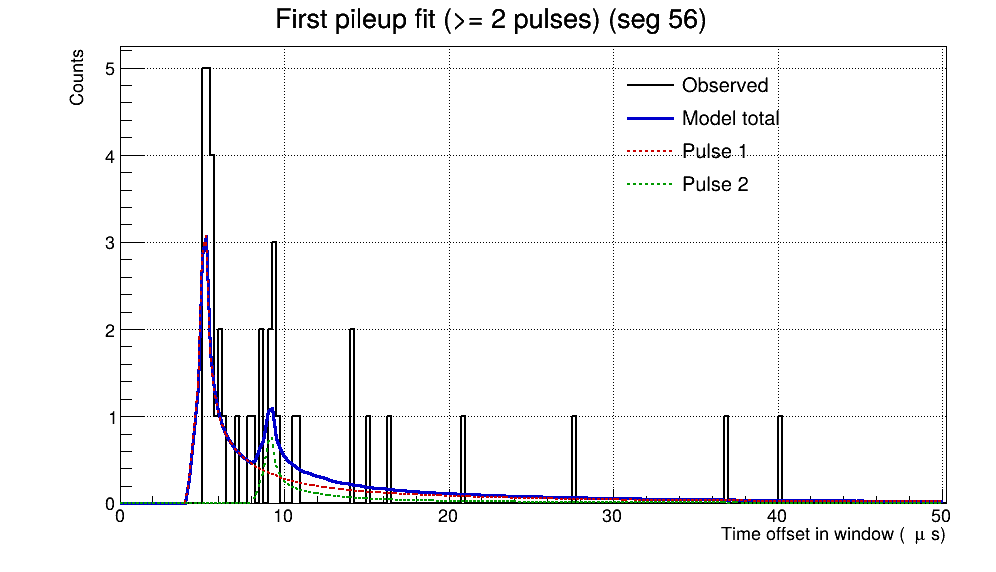
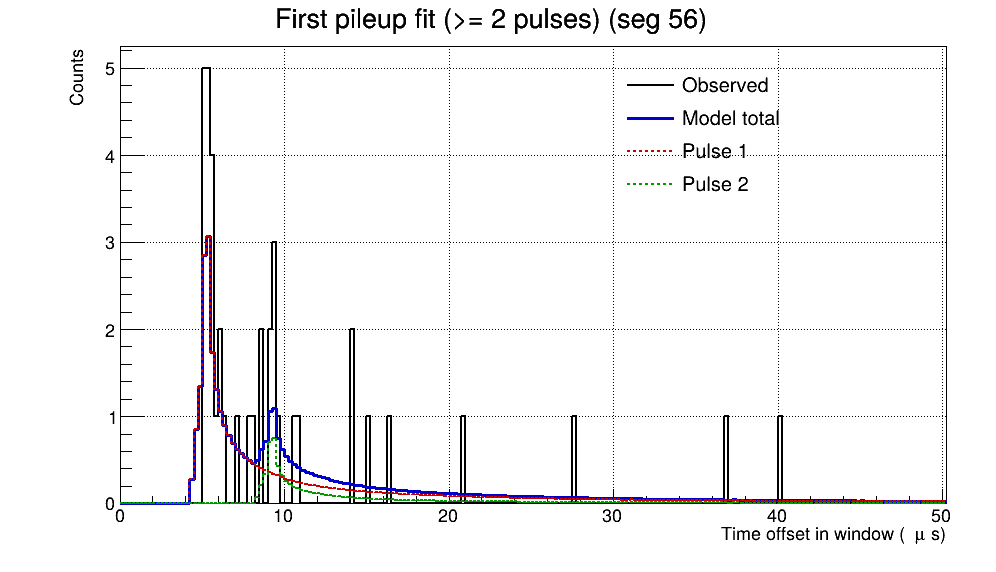
plotting for ver-2

Changed region(s): [[0.1867, 0.4161, 0.3112, 0.8916]]

diff --git a/src/Pulse_Analysis.cpp b/src/Pulse_Analysis.cpp
@@ -14,7 +14,6 @@
 
 using namespace std;
 
-
 static void plot_fit_window(const std::string& out_png,
                             const std::string& title,
                             const std::vector<int>& hist,
@@ -26,7 +25,7 @@ static void plot_fit_window(const std::string& out_png,
         return;
 	
     gStyle->SetOptStat(0);
-	std::string cname = "c_fit_" + out_png;
+	string cname = "c_fit_" + out_png;
     TCanvas* c = new TCanvas(cname.c_str(), "Fit window", 1000, 600);
 	c->SetMargin(0.12, 0.05, 0.12, 0.08);
 	c->SetGrid(1, 1);
@@ -36,7 +35,7 @@ static void plot_fit_window(const std::string& out_png,
 	const double dx = (x.size() > 1 ? (x[1] - x[0]) : 1.0);
 
     // Histogram (observed)
-	std::string hname = "h_obs_" + out_png;
+	string hname = "h_obs_" + out_png;
     TH1D* h = new TH1D(hname.c_str(), title.c_str(), nb, 0.0, x.back() + dx);
     h->SetDirectory(nullptr); // don't register to gDirectory (August 20, 2025)
 	for (int i = 0; i < nb; ++i) h->SetBinContent((int)i+1, hist[i]);
@@ -46,38 +45,57 @@ static void plot_fit_window(const std::string& out_png,
     h->SetLineWidth(2);
     h->Draw("HIST");
 
-    // Total model
-    TGraph* gtot = new TGraph(nb);
-	for (int i = 0; i < nb; ++i) gtot->SetPoint(i, x[i], total[i]);
-	gtot->SetLineColor(kBlue+1);
-	gtot->SetLineWidth(3);
-	gtot->Draw("L SAME");
+	auto make_model_hist = [&](const string& name,
+							   const vector<double>& yvals,
+							   Color_t lineColor,
+							   Style_t lineStyle = 1,
+							   Width_t lineWidth = 2) {
+		TH1D* hm = new TH1D(name.c_str(), "", nb, 0.0, x.back() + dx);
+        hm->SetDirectory(nullptr);
+        for (int i = 0; i < nb; ++i) hm->SetBinContent(i+1, yvals[i]);
+        hm->SetFillStyle(0);         // no fill — outline only (bar-like top)
+        hm->SetLineColor(lineColor);
+        hm->SetLineStyle(lineStyle); // 1=solid, 2=dashed
+        hm->SetLineWidth(lineWidth);
+        hm->Draw("HIST SAME");       // flat-top bars
+        return hm;
+	};
 
-    // Components
-    TLegend* leg = new TLegend(0.62, 0.65, 0.88, 0.88);
-	leg->SetBorderSize(0);
-	leg->SetFillStyle(0);
-    leg->AddEntry(h, "Observed", "l");
-    leg->AddEntry(gtot, "Model total", "l");
+    // Make observed histogram explicitly outline-only too
+    h->SetFillStyle(0);              // no fill for the observed bars
+    h->SetMarkerStyle(0);
+    h->Draw("HIST");                 // already created above
 
+    // Total model as bar-like (flat-top) curve
+    std::string htot_name = "h_tot_" + out_png;
+    TH1D* htot = make_model_hist(htot_name, total, kBlue+1, 1, 3);
+
+    // Components as bar-like curves (dashed)
+    std::vector<TH1D*> hcomps;
+    hcomps.reserve(comps.size());
     int colors[6] = {kRed+1, kGreen+2, kMagenta+1, kOrange+1, kCyan+2, kViolet};
     for (size_t k = 0; k < comps.size(); ++k) {
-        TGraph* gk = new TGraph((int)comps[k].size());
-        for (int i = 0; i < (int)comps[k].size(); ++i) {
-            gk->SetPoint(i, x[i], comps[k][i]);
-        }
-		gk->SetLineStyle(2);
-        gk->SetLineWidth(2);
-        gk->SetLineColor(colors[k % 6]);
-		gk->Draw("L SAME");
-        leg->AddEntry(gk, Form("Pulse %d", (int)k+1), "l");
+        std::string hk_name = "h_comp_" + std::to_string(k) + "_" + out_png;
+        TH1D* hk = make_model_hist(hk_name, comps[k], colors[k % 6], 2, 2);
+        hcomps.push_back(hk);
+    }
+
+    // Legend (same entries, now referring to hist-style lines)
+    TLegend* leg = new TLegend(0.62, 0.65, 0.88, 0.88);
+    leg->SetBorderSize(0);
+    leg->SetFillStyle(0);
+    leg->AddEntry(h,    "Observed",     "l");
+    leg->AddEntry(htot, "Model total",  "l");
+    for (size_t k = 0; k < hcomps.size(); ++k) {
+        leg->AddEntry(hcomps[k], Form("Pulse %d", (int)k+1), "l");
     }
     leg->Draw();
 
     c->SaveAs(out_png.c_str());
 
-    delete h;
-	delete gtot;
+    delete htot;
+	for (auto* hk : hcomps) delete hk;
+	delete h;
 	delete leg;
 	delete c;
 }
@@ -100,7 +118,7 @@ void analysis_setup(const vector<EventList> run_data, json params, string output
 		return;
 	}
 
-	out << "Segment, Time (us), PE, Event, Window Width\n";
+	out << "Segment, Time (us), PE, Event, Window Width, FineBinWidth\n";
 
 	for (size_t seg = 0; seg < run_data.size(); ++seg) {
 		// run pulse fitting on each segment independently
@@ -151,6 +169,7 @@ void analysis_setup(const vector<EventList> run_data, json params, string output
 				<< get<0>(event)/1e6 << ", "
 				<< get<1>(event) << ", "
 				<< get<3>(event) << ", "
+				<< get<5>(event) << ", "
 				<< "1 \n";
 		}
 
@@ -160,6 +179,7 @@ void analysis_setup(const vector<EventList> run_data, json params, string output
 				<< get<0>(event)/1e6 << ", "
 				<< get<1>(event) << ", "
 				<< get<3>(event) << ", "
+				<< get<5>(event) << ", "
 				<< "0 \n";
 		}
 	}

diff --git a/src/Pulse_Fitting.cpp b/src/Pulse_Fitting.cpp
@@ -6,6 +6,7 @@
 #include <iostream>
 #include <limits>
 #include <stdexcept>
+#include <cmath>
 
 using namespace std;
 
@@ -160,7 +161,7 @@ bool Pulse_Fitting::makeHistogram(const vector<double>& times, int i, double bin
     }
 
     // --- NEW: prepend 5 us worth of empty bins so fitter origin is at -5 us (due to PDF generate algorithm in Pulse_Tail.cpp) ---
-    int pre_bins = static_cast<int>(std::llround(shiftUs_ / binWidth));
+    int pre_bins = (binWidth == binWidth_) ? preBins_ : finePreBins_;
     if (pre_bins > 0) {
         hist.insert(hist.begin(), pre_bins, 0);
 
@@ -175,7 +176,7 @@ bool Pulse_Fitting::makeHistogram(const vector<double>& times, int i, double bin
 }
 
 void Pulse_Fitting::fitRegion(const vector<double>& data_us,
-                              vector<tuple<double, double, int, double, bool>>& output) 
+                              vector<tuple<double, double, int, double, bool, bool>>& output) 
 {
     // slide over data, window by window, fit pulses per window
     int i = 0;
@@ -187,14 +188,16 @@ void Pulse_Fitting::fitRegion(const vector<double>& data_us,
         vector<double> xCenters;
         double windowWidth, startTime, endTime;
         int j;
+        double binWidth = binWidth_;
 
-        if (!makeHistogram(data_us, i, binWidth_, windowWidth, j, startTime, endTime, hist, xCenters)) {
+        if (!makeHistogram(data_us, i, binWidth, windowWidth, j, startTime, endTime, hist, xCenters)) {
             i = j;
             continue;
         }
 
         if (xCenters.size() < 2) {
-            if (!makeHistogram(data_us, i, fineBinWidth_, windowWidth, j, startTime, endTime, hist, xCenters)) {
+            binWidth = fineBinWidth_;
+            if (!makeHistogram(data_us, i, binWidth, windowWidth, j, startTime, endTime, hist, xCenters)) {
                 i = j;
                 continue;
             }
@@ -204,7 +207,7 @@ void Pulse_Fitting::fitRegion(const vector<double>& data_us,
 
         vector<double> fittedPEs, fittedDTs;
 
-        bool success = fitPulses(hist, xCenters, pdfLookup, fittedPEs, fittedDTs);
+        bool success = fitPulses(hist, xCenters, pdfLookup, fittedPEs, fittedDTs, binWidth);
         if (!success) {
             i = j;
             continue;
@@ -255,11 +258,10 @@ void Pulse_Fitting::fitRegion(const vector<double>& data_us,
         }
 
         // --- NEW: convert DT to absolute time with +5us correction ---
-        const int pre_bins = static_cast<int>(std::llround(shiftUs_ / binWidth_));
         for (size_t k = 0; k < fittedPEs.size(); ++k) {
             const int dt_bins = round_to_index(fittedDTs[k], (int)xCenters.size() - 1);
-            double pulse_time_us = startTime + dt_bins * binWidth_ + shiftUs_; // +5us correction
-            output.emplace_back(pulse_time_us, fittedPEs[k], windowCount, windowWidth, fittedPEs.size() > 1); // store result
+            double pulse_time_us = startTime + dt_bins * binWidth + shiftUs_; // +5us correction
+            output.emplace_back(pulse_time_us, fittedPEs[k], windowCount, windowWidth, fittedPEs.size() > 1, binWidth == fineBinWidth_); // store result
             // cout << (double)j/(double)N << ", " << pulse_time_us / 1e6 << ", " << fittedPEs[k] << ", " << endl;
         }
         // --- end NEW (August 20, 2025) ---
@@ -347,14 +349,14 @@ vector<int> Pulse_Fitting::findGradientPeaks(const vector<int>& hist, double thr
 
 bool Pulse_Fitting::fitPulses(const vector<int>& hist, const vector<double>& xCenters,
                               const vector<vector<double>>& pdfLookup,
-                              vector<double>& fittedPEs, vector<double>& fittedDTs) 
+                              vector<double>& fittedPEs, vector<double>& fittedDTs,
+                              const double binWidth) 
 {
     // seed candidates from gradient; then NLOpt (bounded) to fit PE, dt
     const int minPE = 5;
     const int window = 5;
 
     // Compute pre_bins from current bin width (5 us target) (August 20, 2025)
-    const double binWidth = binWidth_;
     const int pre_bins = static_cast<int>(std::llround(shiftUs_ / binWidth));
 
     // Use separate gradient peak detection function

diff --git a/include/Pulse_Fitting.h b/include/Pulse_Fitting.h
@@ -42,6 +42,8 @@ class Pulse_Fitting {
             setConfigKnobs(c.shift_us, c.seed_pe_default, c.gradient_threshold, c.guard_bin);
             pileupMinPulses_ = c.pileup_min_pulses;
             capturePlots_ = c.plot_fits;
+            preBins_ = (int)std::llround(shiftUs_ / std::max(1e-12, binWidth_));
+            finePreBins_ = (int)std::llround(shiftUs_ / std::max(1e-12, fineBinWidth_));
         }
 
         double shift_us() const { return shiftUs_; }
@@ -65,8 +67,8 @@ class Pulse_Fitting {
         void setBackgroundWindow(double start_us); // background window [start, start+60s)
         void analyze(); // build windows, fit pulses, fill outputs
 
-        const std::vector<std::tuple<double, double, int, double, bool>>& getSignalPulses() const { return signalPulses_; }
-        const std::vector<std::tuple<double, double, int, double, bool>>& getBackgroundPulses() const { return backgroundPulses_; }
+        const std::vector<std::tuple<double, double, int, double, bool, bool>>& getSignalPulses() const { return signalPulses_; }
+        const std::vector<std::tuple<double, double, int, double, bool, bool>>& getBackgroundPulses() const { return backgroundPulses_; }
 
     private:
         double binWidth_ = 1.0; // primary histogram bin (us)
@@ -84,12 +86,14 @@ class Pulse_Fitting {
         double seedPE_ = 20.0;
         double gradThr_ = 2.0;
         int guardBin_ = 1;
+        int preBins_;
+        int finePreBins_;
 
         std::map<std::pair<int, double>, std::vector<std::vector<double>>> pdfCache_; // keyed by (nbins, binWidth)
 
-        // each tuple: (pulse_time_us, PE, window_index, window_width_us, is_pileup)
-        std::vector<std::tuple<double, double, int, double, bool>> signalPulses_;
-        std::vector<std::tuple<double, double, int, double, bool>> backgroundPulses_;
+        // each tuple: (pulse_time_us, PE, window_index, window_width_us, is_pileup, is_fineGrid)
+        std::vector<std::tuple<double, double, int, double, bool, bool>> signalPulses_;
+        std::vector<std::tuple<double, double, int, double, bool, bool>> backgroundPulses_;
         double peBackgroundRate_;
         double eventBackgroundRate_;
 
@@ -120,7 +124,7 @@ class Pulse_Fitting {
                         std::vector<int>& hist, std::vector<double>& xCenters); // build window hist from times[i...j)
         
         void fitRegion(const std::vector<double>& data_us,
-                    std::vector<std::tuple<double, double, int, double, bool>>& output);
+                    std::vector<std::tuple<double, double, int, double, bool, bool>>& output);
         
         std::vector<std::vector<double>> generatePDFLookup(const std::vector<double>& xCenters); // cached shifted PDFs
 
@@ -136,7 +140,7 @@ class Pulse_Fitting {
                                 
         bool fitPulses(const std::vector<int>& hist, const std::vector<double>& xCenters,
                     const std::vector<std::vector<double>>& pdfLookup,
-                    std::vector<double>& fittedPEs, std::vector<double>& fittedDTs); // NLOpt fit over PE, DT per pulse
+                    std::vector<double>& fittedPEs, std::vector<double>& fittedDTs, const double binWidth); // NLOpt fit over PE, DT per pulse
 };
 
 #endif // PULSE_FITTING_H

diff --git a/Calculate_Lifetime.py b/Calculate_Lifetime.py
@@ -109,16 +109,20 @@ for _, r in runinfo.iterrows(): # aggregate all runs passing filter
 
     f = os.path.join(ANALYSIS_DIR, f'PulseAnalysis_{run}.csv')
     if not os.path.exists(f):
-        print(f"Missing {f}, skipping run {run}.")
+        # print(f"Missing {f}, skipping run {run}.")
         continue
     
     try:
         df = pd.read_csv(f)
         df.columns = df.columns.str.strip()
+        
+        df['Segment'] = pd.to_numeric(df['Segment'], errors='coerce').astype('Int64')
+        df['PE'] = pd.to_numeric(df['PE'], errors='coerce')
+        df['Event'] = pd.to_numeric(df['Event'], errors='coerce')
     except Exception as e:
         continue
     
-    for seg in df['Segment'].unique():
+    for seg in df['Segment'].dropna().unique():
         if str(seg) not in SEGMENTS:
             print(f"Unknown segment {seg} in run {run}, skipping.")
             continue
@@ -128,16 +132,16 @@ for _, r in runinfo.iterrows(): # aggregate all runs passing filter
             results[key] = {'times': [], 'PE': [], 'bg_flag': []}
             fillucn_sum[key] = 0.0
         
-        mask = (df['Segment'].tolist() == seg)
+        mask = (df['Segment'] == seg)
         # if run == '26594' or run == 26594:
         #     print(df.head)
         #     print(seg)
         #     print(df.loc[mask])
-        results[key]['times'].extend(df.loc[mask, 'Time (us)'].values)
-        results[key]['PE'].extend(df.loc[mask, 'PE'].values)
-        results[key]['bg_flag'].extend(df.loc[mask, 'Event'].values)
+        results[key]['times'].extend(df.loc[mask, 'Time (us)'].to_numpy())
+        results[key]['PE'].extend(df.loc[mask, 'PE'].to_numpy())
+        results[key]['bg_flag'].extend(df.loc[mask, 'Event'].to_numpy())
         
-        fillucn_sum[key] += per_seg_fill[str(seg)]
+        fillucn_sum[key] += float(per_seg_fill[str(int(seg))])
 
 print("Plotting PE Hist, max PE: ")
 
@@ -206,7 +210,7 @@ for i, seg in enumerate(SEGMENTS):
 
         tau, dtau = fit_tau_profiled(ys, ts)
         lifetimes.append(tau)
-        dlifetimes.append(dtau / 10000)
+        dlifetimes.append(dtau)
 
     lifetime_by_seg[seg] = (lifetimes, dlifetimes)
     plt.errorbar(thresholds, lifetimes, yerr=dlifetimes, fmt='o-', label=f'Segment {seg}')
